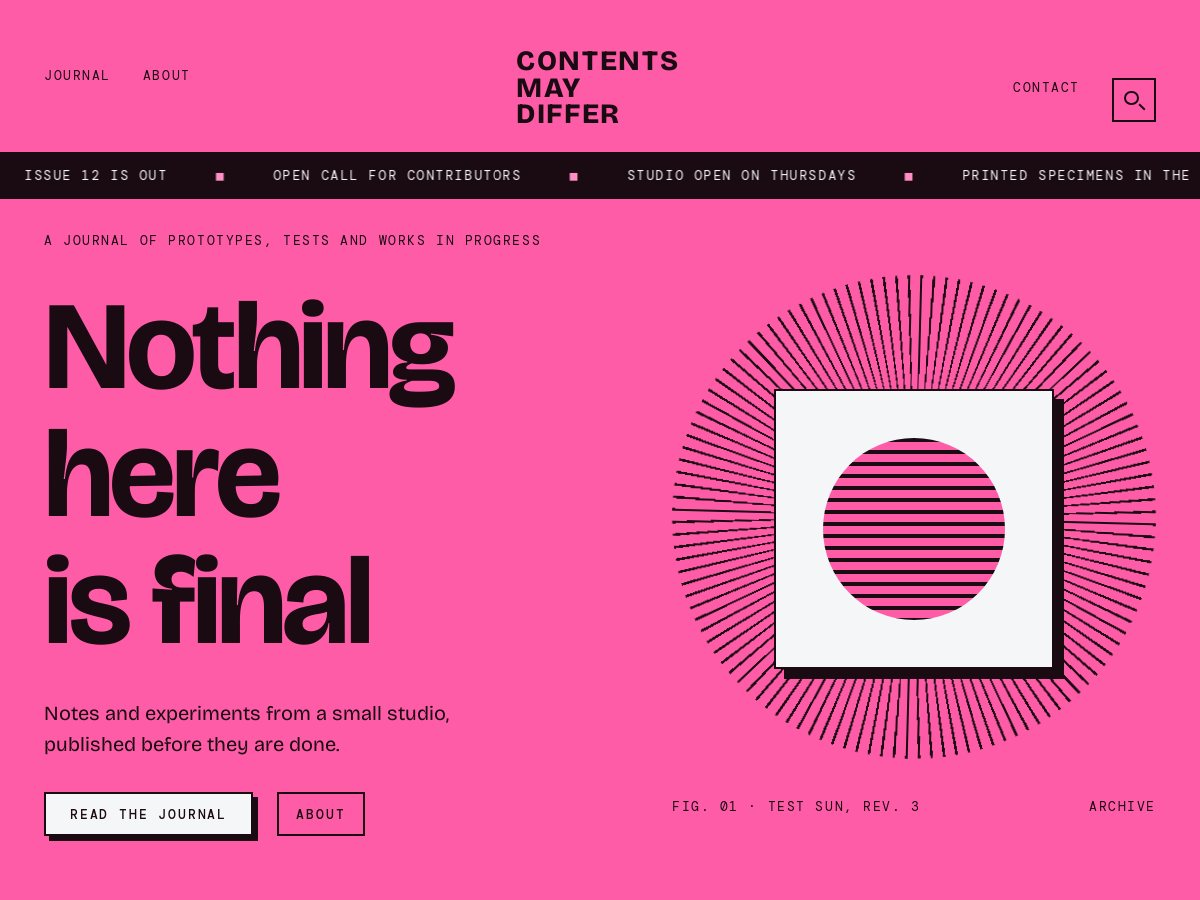
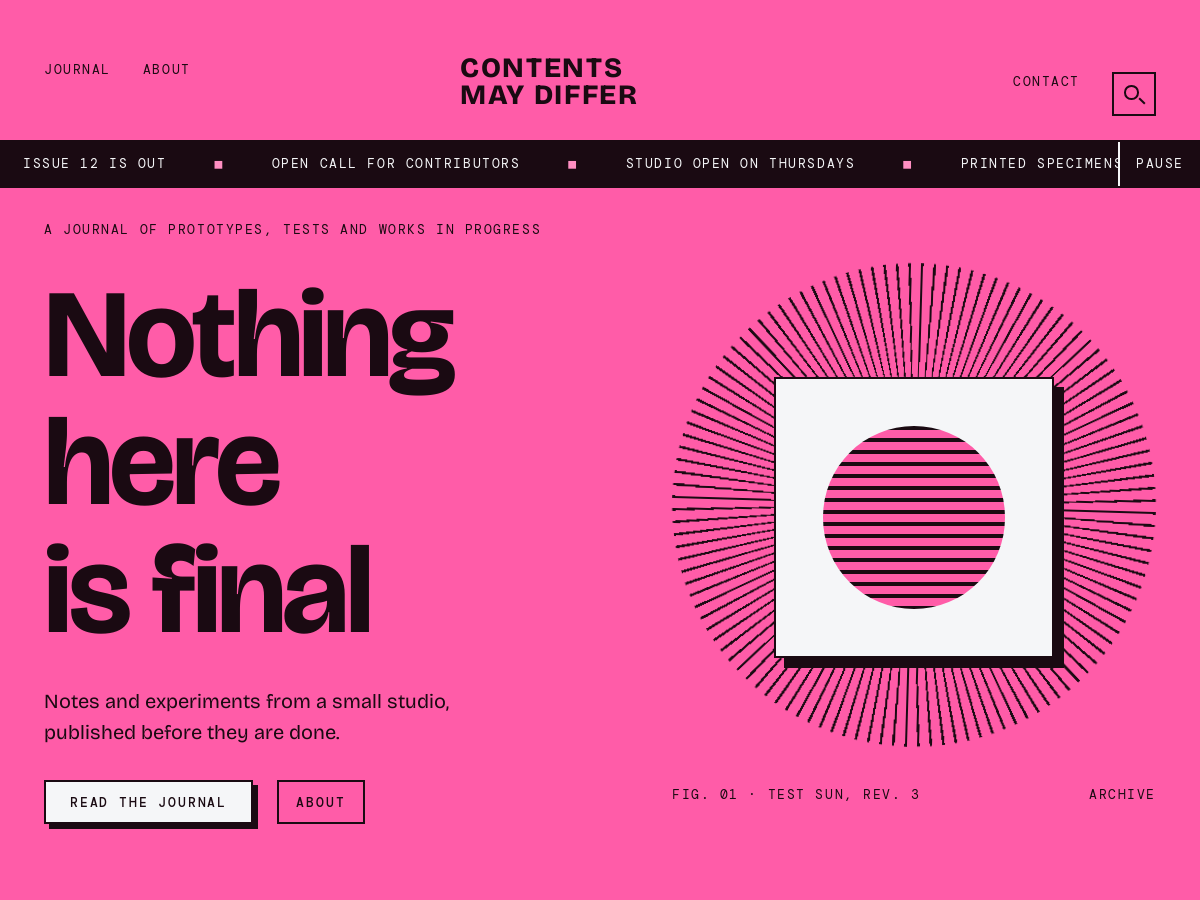
feat: ticker pause button, wider wordmark, site title in the footer
Mark's decisions on BTF-102, BTF-103 and BTF-104.

- Ticker: theme.js adds a Pause/Play button at the strip's right end
  while it moves, labelled 'Pause announcements' / 'Play announcements'
  (strings passed in from functions.php for translation). It replaces
  the focus-within pause, which nothing in the strip could trigger.
  Hover still pauses; reduced motion still shows no motion and no button.
- Wordmark: max width 6em -> 10em, so a short title sets in the brief's
  two lines and a long one wraps less (10 -> 5 lines at 1280). A word too
  long for the column now breaks instead of scrolling the page sideways.
- Footer: '© [YEAR] [SITE NAME]' becomes © plus a Site Title block, so it
  is right on a fresh install. Core has no year block; the year goes.
- Screenshot regenerated: two-line wordmark, Pause button in the ticker.

diff --git a/style.css b/style.css
@@ -80,7 +80,10 @@ Tags: full-site-editing, block-patterns, one-column, wide-blocks, editor-style, 
   text-decoration: none;
   margin: 0;
 }
-.c-wordmark { max-inline-size: 6em; text-wrap: balance; }
+/* Two lines for a short title, as the brief draws it; a long title takes more
+   width before it wraps, and a word too long for the column breaks rather than
+   pushing the page sideways. */
+.c-wordmark { max-inline-size: 10em; text-wrap: balance; overflow-wrap: anywhere; }
 .c-wordmark a:hover { text-decoration: none; }
 .c-brand { display: flex; align-items: center; justify-content: center; gap: 0.75rem; }
 .c-brand:has(.custom-logo) .wp-block-site-title { display: none; }
@@ -684,8 +687,8 @@ html.has-scroll-lock { overflow: hidden; }
 
 /* --- Ticker ----------------------------------------------------------------------
    One mono line travelling right to left. The script doubles the items (the
-   copy is hidden from assistive technology) and adds .is-looping; without it,
-   and under reduced motion, the lines wrap and stay still. */
+   copy is hidden from assistive technology), adds .is-looping and a Pause/Play
+   button; without it, and under reduced motion, the lines wrap and stay still. */
 .c-ticker { overflow: hidden; border-block: 2px solid var(--ink); padding-inline: var(--gut); }
 .c-ticker__track {
   display: flex;
@@ -707,7 +710,27 @@ html.has-scroll-lock { overflow: hidden; }
 }
 .c-ticker.is-looping .c-ticker__track li:last-child::after { content: "■"; }
 .c-ticker.is-looping:hover .c-ticker__track,
-.c-ticker.is-looping:focus-within .c-ticker__track { animation-play-state: paused; }
+.c-ticker.is-paused .c-ticker__track { animation-play-state: paused; }
+/* The Pause/Play button the script adds: a mono label on the deep ground,
+   pinned to the strip's right end over the travelling lines. The ring is
+   drawn inside it, since the strip clips anything outside. */
+.c-ticker { position: relative; }
+.c-ticker__toggle {
+  position: absolute;
+  inset-block: 0;
+  right: 0;
+  display: flex;
+  align-items: center;
+  padding-inline: 1rem;
+  border: 0;
+  border-left: 2px solid currentColor;
+  border-radius: 0;
+  background-color: inherit;
+  color: inherit;
+  cursor: pointer;
+}
+.c-ticker__toggle:hover { text-decoration: underline; text-decoration-thickness: 0.15em; }
+.c-ticker__toggle:focus-visible { outline-offset: -6px; }
 @keyframes c-tick { to { transform: translateX(-50%); } }
 
 /* --- Statement band and open call -------------------------------------------------- */
@@ -976,6 +999,8 @@ html.has-scroll-lock { overflow: hidden; }
   padding-top: var(--wp--preset--spacing--50);
 }
 .c-footer__base > * { margin: 0; }
+.c-footer__copy { display: flex; gap: 0.5em; }
+.c-footer__copy > * { margin: 0; }
 .c-list-plain,
 .c-list-plain ul { list-style: none; margin: 0; padding: 0; }
 .c-footer .wp-block-categories li:nth-child(n+7) { display: none; }

diff --git a/assets/js/theme.js b/assets/js/theme.js
@@ -169,9 +169,17 @@
 	}
 
 	// Ticker: double the items for a seamless loop, hide the copy from
-	// assistive technology, and pause on hover or focus (CSS). Skipped under
-	// reduced motion, where the lines stay wrapped and still.
+	// assistive technology, and add a Pause/Play button so the motion can be
+	// stopped from the keyboard (WCAG 2.2.2); it also pauses on hover (CSS).
+	// Skipped under reduced motion, where the lines stay wrapped and still and
+	// there is nothing to pause.
 	var reduce = window.matchMedia && window.matchMedia( '(prefers-reduced-motion: reduce)' );
+	var words = window.bd324PrototypeHallTicker || {};
+	var setToggle = function ( ticker, button, paused ) {
+		ticker.classList.toggle( 'is-paused', paused );
+		button.textContent = paused ? ( words.play || 'Play' ) : ( words.pause || 'Pause' );
+		button.setAttribute( 'aria-label', paused ? ( words.playLabel || 'Play announcements' ) : ( words.pauseLabel || 'Pause announcements' ) );
+	};
 	var setupTicker = function () {
 		Array.prototype.forEach.call( document.querySelectorAll( '.c-ticker' ), function ( ticker ) {
 			var track = ticker.querySelector( '.c-ticker__track' );
@@ -179,8 +187,12 @@
 			if ( ! track ) {
 				return;
 			}
+			var toggle = ticker.querySelector( '.c-ticker__toggle' );
 			if ( reduce && reduce.matches ) {
-				ticker.classList.remove( 'is-looping' );
+				ticker.classList.remove( 'is-looping', 'is-paused' );
+				if ( toggle ) {
+					toggle.parentNode.removeChild( toggle );
+				}
 				if ( track.hasAttribute( 'data-looped' ) ) {
 					Array.prototype.forEach.call( track.querySelectorAll( '[data-clone]' ), function ( node ) {
 						node.parentNode.removeChild( node );
@@ -199,6 +211,16 @@
 				track.setAttribute( 'data-looped', '' );
 			}
 			ticker.classList.add( 'is-looping' );
+			if ( ! toggle ) {
+				toggle = document.createElement( 'button' );
+				toggle.type = 'button';
+				toggle.className = 'c-ticker__toggle c-label';
+				toggle.addEventListener( 'click', function () {
+					setToggle( ticker, toggle, ! ticker.classList.contains( 'is-paused' ) );
+				} );
+				ticker.appendChild( toggle );
+				setToggle( ticker, toggle, false );
+			}
 		} );
 	};
 	setupTicker();

diff --git a/patterns/footer.php b/patterns/footer.php
@@ -68,9 +68,15 @@ $home = esc_url( home_url( '/' ) );
 
 		<!-- wp:group {"className":"c-footer__base","layout":{"type":"default"}} -->
 		<div class="wp-block-group c-footer__base">
-			<!-- wp:paragraph {"className":"c-label"} -->
-			<p class="c-label"><?php esc_html_e( '© [YEAR] [SITE NAME]', 'prototype-hall' ); ?></p>
-			<!-- /wp:paragraph -->
+			<!-- wp:group {"className":"c-footer__copy","layout":{"type":"default"}} -->
+			<div class="wp-block-group c-footer__copy">
+				<!-- wp:paragraph {"className":"c-label"} -->
+				<p class="c-label"><?php echo esc_html_x( '©', 'copyright sign before the site title in the footer', 'prototype-hall' ); ?></p>
+				<!-- /wp:paragraph -->
+
+				<!-- wp:site-title {"level":0,"isLink":false,"className":"c-label"} /-->
+			</div>
+			<!-- /wp:group -->
 
 			<!-- wp:paragraph {"className":"c-label"} -->
 			<p class="c-label"><?php esc_html_e( '[FOOTER CREDIT]', 'prototype-hall' ); ?></p>

diff --git a/functions.php b/functions.php
@@ -62,6 +62,18 @@ if ( ! function_exists( 'bd324_prototype_hall_enqueue_styles' ) ) :
 				'in_footer' => true,
 			)
 		);
+		wp_add_inline_script(
+			'bd324-prototype-hall-theme',
+			'var bd324PrototypeHallTicker = ' . wp_json_encode(
+				array(
+					'pause'      => __( 'Pause', 'prototype-hall' ),
+					'play'       => __( 'Play', 'prototype-hall' ),
+					'pauseLabel' => __( 'Pause announcements', 'prototype-hall' ),
+					'playLabel'  => __( 'Play announcements', 'prototype-hall' ),
+				)
+			) . ';',
+			'before'
+		);
 	}
 endif;
 add_action( 'wp_enqueue_scripts', 'bd324_prototype_hall_enqueue_styles' );
